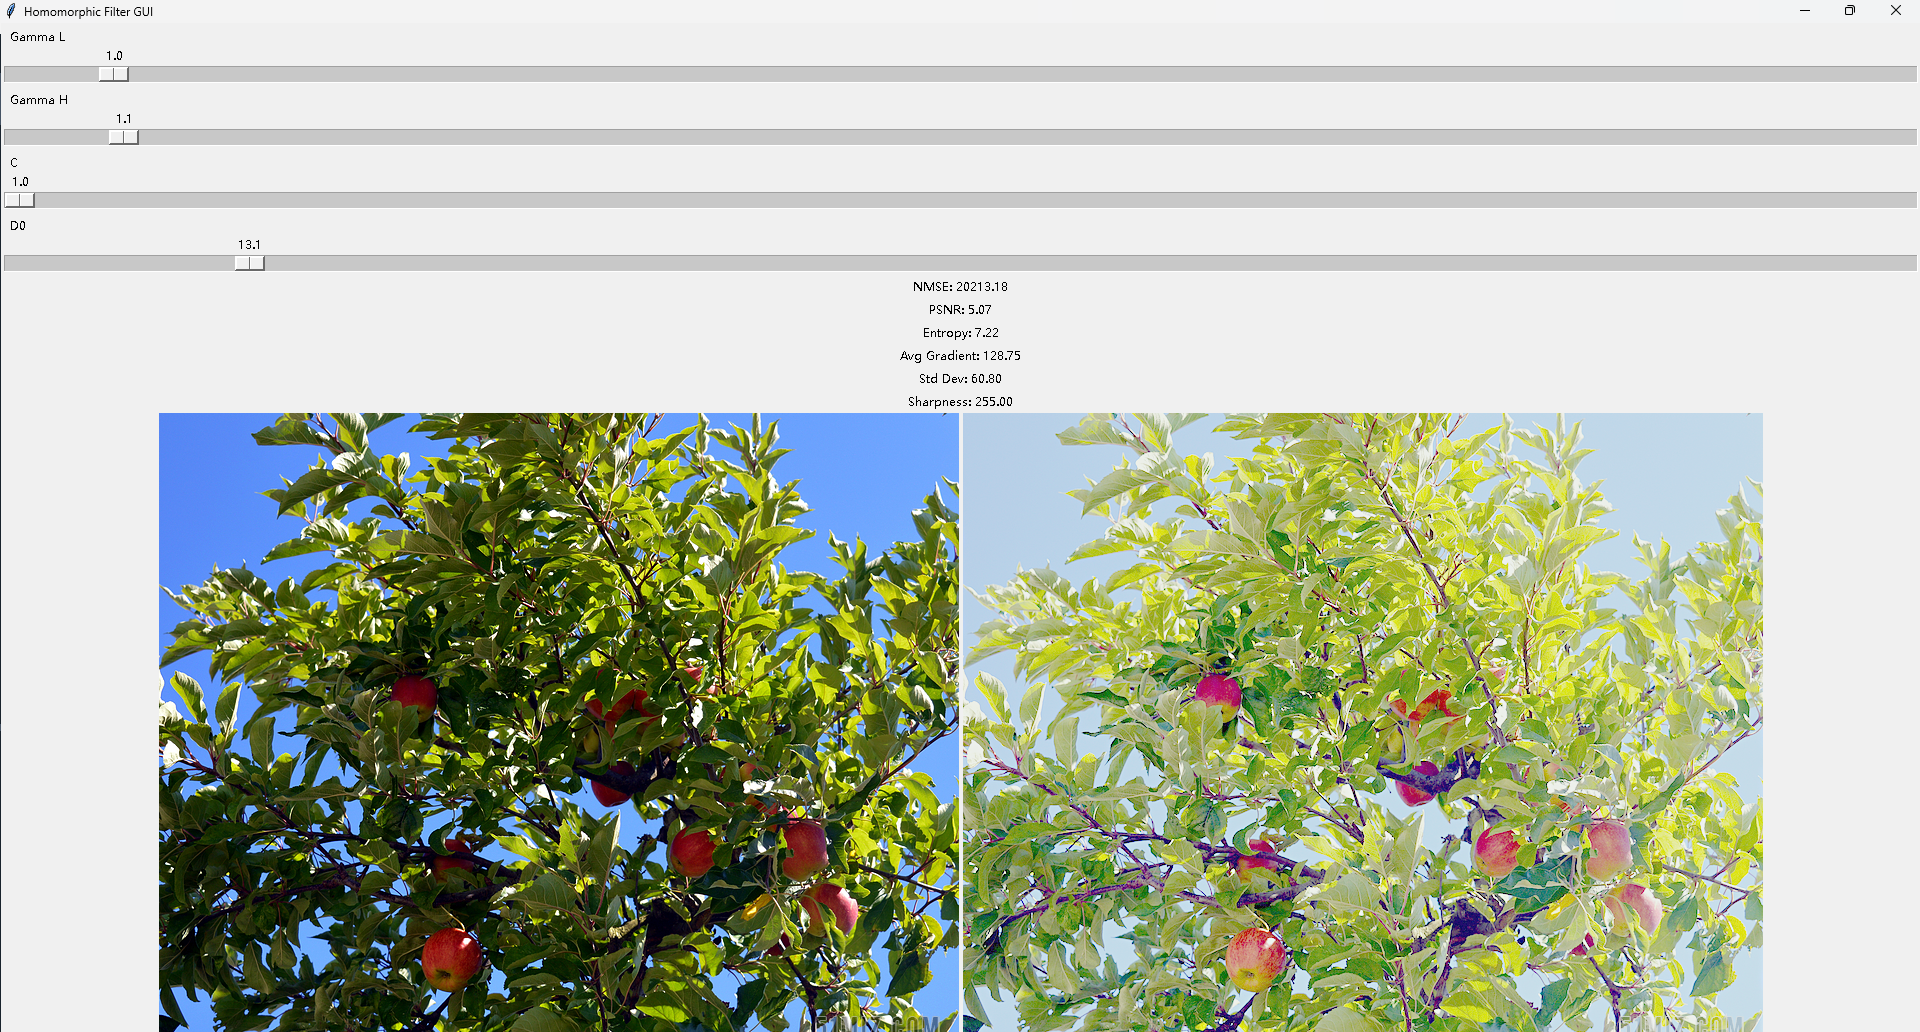
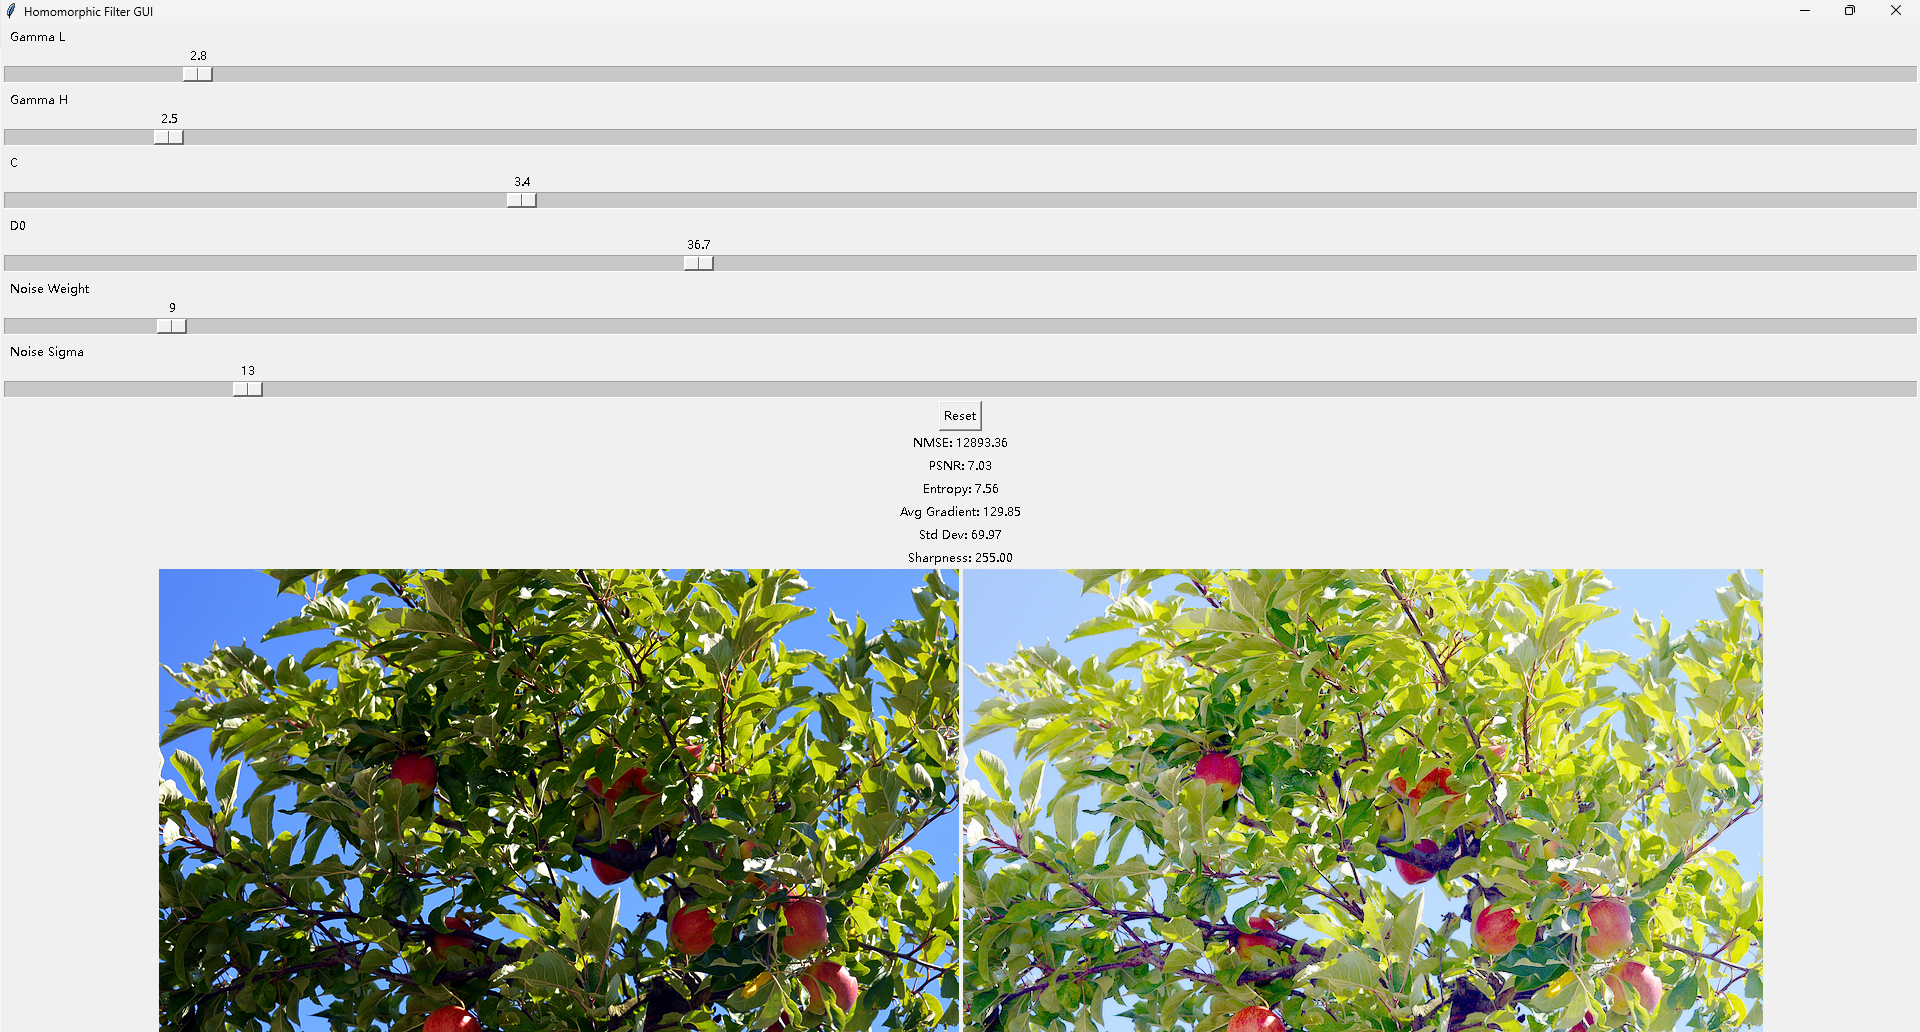
Add files via upload

diff --git a/实验2.py b/实验2.py
@@ -47,6 +47,14 @@ def standard_deviation(image):
 def sharpness(image):
     return np.max(cv2.convertScaleAbs(cv2.Laplacian(image, cv2.CV_64F)))
 
+def add_gaussian_noise(image, sigma, weight):
+    row, col, ch = image.shape
+    mean = 0
+    gauss = np.random.normal(mean, sigma, (row, col, ch))
+    noisy = np.clip(image + gauss * weight, 0, 255)
+    return noisy.astype(np.uint8)
+
+
 def homomorphic_filter(img, gamma_l, gamma_h, c, d0):
     img_log = np.log1p(np.array(img, dtype="float"))
     rows, cols = img_log.shape
@@ -67,20 +75,35 @@ def homomorphic_filter(img, gamma_l, gamma_h, c, d0):
 
     return img_out
 
+def reset_parameters():
+    gamma_l_slider.set(0)  # 设置为初始值
+    gamma_h_slider.set(0)  # 设置为初始值
+    c_slider.set(1)  # 设置为初始值
+    d0_slider.set(1)  # 设置为初始值
+    noise_weight_slider.set(0)  # 设置为初始值
+    noise_sigma_slider.set(0)  # 设置为初始值
+    update_image()  # 调用 update_image 函数来重置图像和标签
+
+
 def update_image():
+    noise_weight = noise_weight_slider.get() / 100
+    noise_sigma = noise_sigma_slider.get()
+    
+    noisy_img = add_gaussian_noise(img_rgb, noise_sigma, noise_weight)
+    
     gamma_l = gamma_l_slider.get() / 10
     gamma_h = gamma_h_slider.get() / 10
     c = c_slider.get() / 10
     d0 = d0_slider.get()
 
-    filtered_channels = [homomorphic_filter(img_rgb[:,:,i], gamma_l, gamma_h, c, d0) for i in range(3)]
+    filtered_channels = [homomorphic_filter(noisy_img[:,:,i], gamma_l, gamma_h, c, d0) for i in range(3)]
     filtered = np.stack(filtered_channels, axis=2)
 
-    orig_float = img_rgb.astype('float')
+    noisy_float = noisy_img.astype('float')
     filtered_float = filtered.astype('float')
 
-    nmse_value = normalized_mse(orig_float, filtered_float)
-    psnr_value = psnr(orig_float, filtered_float)
+    nmse_value = normalized_mse(noisy_float, filtered_float)
+    psnr_value = psnr(noisy_float, filtered_float)
     entropy_value = entropy(filtered)
     avg_grad_value = average_gradient(filtered)
     std_dev_value = standard_deviation(filtered)
@@ -98,6 +121,7 @@ def update_image():
     label_filtered.imgtk = imgtk
     label_filtered.configure(image=imgtk)
 
+
 root = tk.Tk()
 root.title("Homomorphic Filter GUI")
 
@@ -109,10 +133,10 @@ if img is None:
 
 img_rgb = cv2.cvtColor(img, cv2.COLOR_BGR2RGB)
 
-gamma_l_slider = tk.Scale(root, from_=0, to=20, label='Gamma L', orient=tk.HORIZONTAL, command=lambda x: update_image(), resolution=0.1)
+gamma_l_slider = tk.Scale(root, from_=1, to=20, label='Gamma L', orient=tk.HORIZONTAL, command=lambda x: update_image(), resolution=0.1)
 gamma_l_slider.pack(fill="both")
 
-gamma_h_slider = tk.Scale(root, from_=0, to=20, label='Gamma H', orient=tk.HORIZONTAL, command=lambda x: update_image(), resolution=0.1)
+gamma_h_slider = tk.Scale(root, from_=1, to=20, label='Gamma H', orient=tk.HORIZONTAL, command=lambda x: update_image(), resolution=0.1)
 gamma_h_slider.pack(fill="both")
 
 c_slider = tk.Scale(root, from_=1, to=10, label='C', orient=tk.HORIZONTAL, command=lambda x: update_image(), resolution=0.1)
@@ -120,6 +144,15 @@ c_slider.pack(fill="both")
 
 d0_slider = tk.Scale(root, from_=1, to=100, label='D0', orient=tk.HORIZONTAL, command=lambda x: update_image(), resolution=0.1)
 d0_slider.pack(fill="both")
+
+noise_weight_slider = tk.Scale(root, from_=1, to=100, label='Noise Weight', orient=tk.HORIZONTAL, resolution=1,command=lambda x: update_image())
+noise_weight_slider.pack(fill="both")
+
+noise_sigma_slider = tk.Scale(root, from_=1, to=100, label='Noise Sigma', orient=tk.HORIZONTAL, resolution=1,command=lambda x: update_image())
+noise_sigma_slider.pack(fill="both")
+
+reset_button = tk.Button(root, text="Reset", command=reset_parameters)
+reset_button.pack()
 
 nmse_label = tk.Label(root, text="NMSE:")
 nmse_label.pack()
